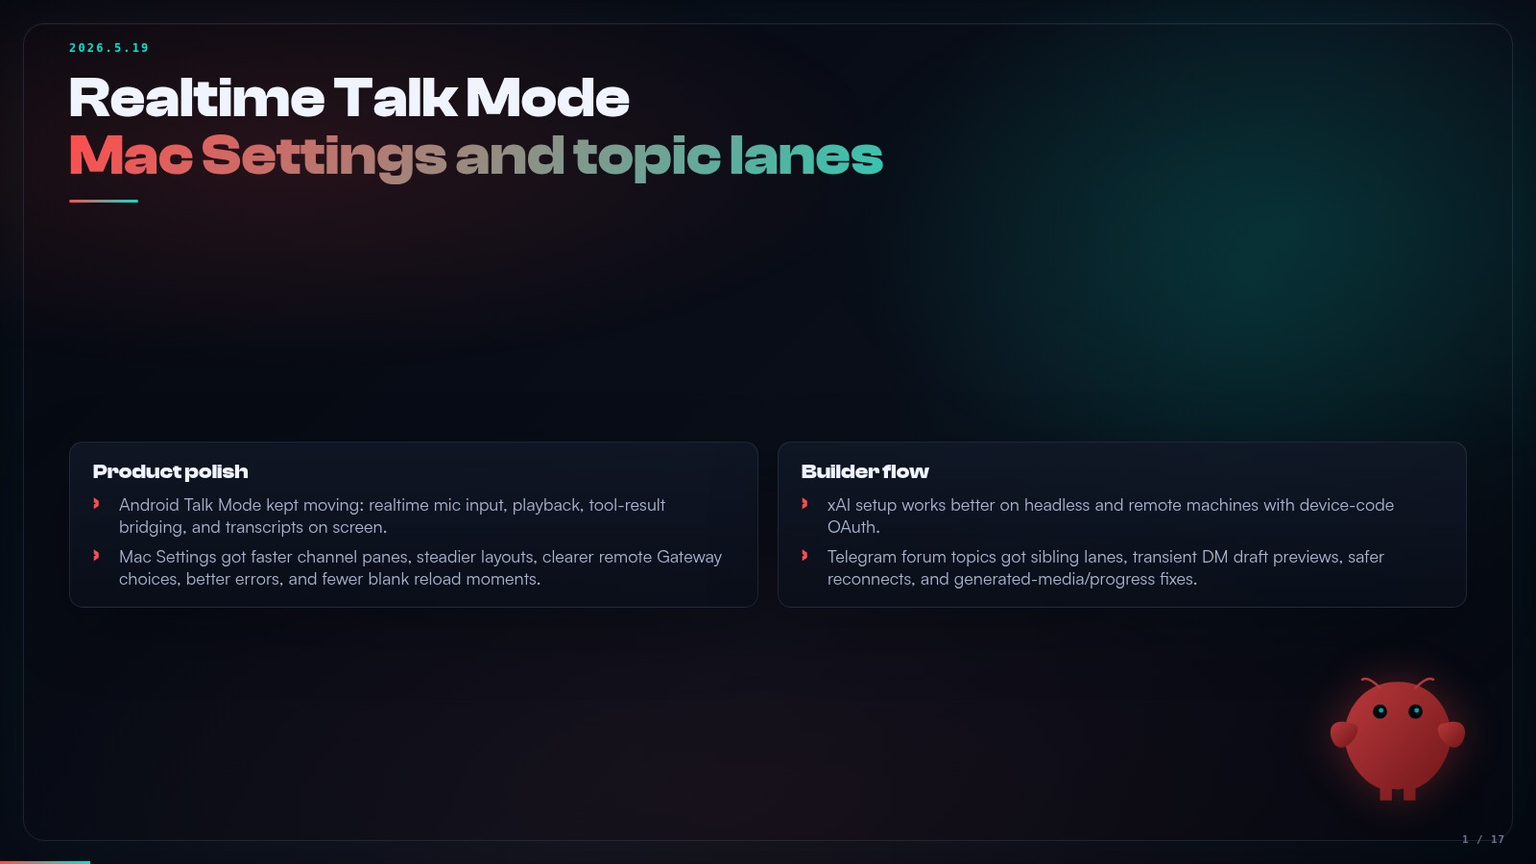
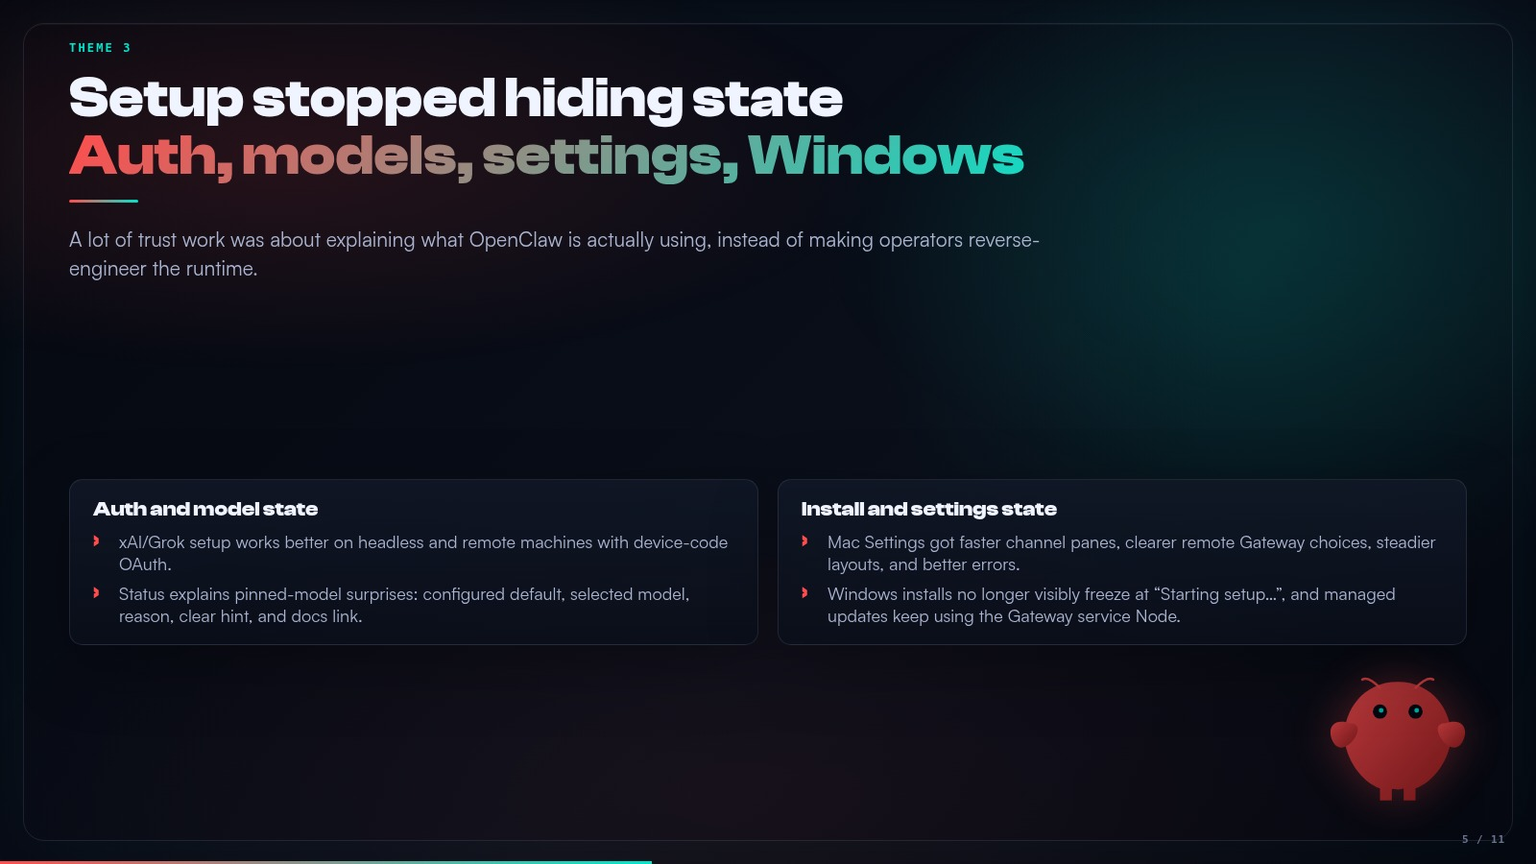
Compress Weekly Claw week 15 deck

diff --git a/public/weekly-claw/week15/deck.html b/public/weekly-claw/week15/deck.html
@@ -138,39 +138,27 @@ li::before,.bullet-list li::before{content:"›";font:700 25px/.86 var(--font-di
 </head>
 <body>
 <div class="deck" id="deck">
-<section class="slide active layout-title" id="s1"><div class="claw-wordmark"><span class="claw-weekly">Weekly</span><span class="claw-claw">CLAW</span><span class="claw-ep">Ep. <em class="ep-num">15</em></span></div><div class="ep-label">OpenClaw Community · May 22, 2026</div><h1 class="title-hero">OpenClaw Change log &amp; Dev Experience<br><em>Less fragile. More operator-grade.</em></h1><div class="gold-rule"></div><p class="lead">Three stable releases landed this week: 2026.5.18, 2026.5.19, and 2026.5.20. The story is reliability work reaching the places builders actually feel first.</p><div class="card"><ul class="bullet-list"><li>Stable releases covered: 2026.5.18, 2026.5.19, 2026.5.20</li><li>Main story: voice, auth, Telegram topics, browser dialogs, status, secrets, Windows setup, and review loops moved from rough edges toward operating-system behavior.</li></ul></div><span class="meta-pill">2026-05-22.html</span><p class="caption">OpenClaw Weekly Dev Experience · slide 1 / 17</p></section>
+<section class="slide active layout-title" id="s1"><div class="claw-wordmark"><span class="claw-weekly">Weekly</span><span class="claw-claw">CLAW</span><span class="claw-ep">Ep. <em class="ep-num">15</em></span></div><div class="ep-label">OpenClaw Community · May 22, 2026</div><h1 class="title-hero">OpenClaw Change log &amp; Dev Experience<br><em>Less fragile. More operator-grade.</em></h1><div class="gold-rule"></div><p class="lead">Three stable releases landed this week. The story is reliability work reaching the places builders actually feel first.</p><div class="card"><ul class="bullet-list"><li>Release window: the May 18-20 stable line.</li><li>Main story: voice, auth, Telegram topics, browser dialogs, status, secrets, Windows setup, and review loops moved from rough edges toward operating-system behavior.</li></ul></div><span class="meta-pill">2026-05-22.html</span><p class="caption">OpenClaw Weekly Dev Experience · slide 1 / 11</p></section>
 
-<section class="slide layout-topic"><div class="ep-label">Community pulse</div><h2 class="slide-title">The numbers<br><span class="accent">Three releases, one reliability arc</span></h2><div class="gold-rule"></div><p class="lead">The release notes were not quiet: 601 bullets, 472 fixes, and 481 issue references across the stable line.</p><div class="stat-row"><div class="stat"><span class="num">3</span><span class="label">stable releases</span></div><div class="stat"><span class="num">601</span><span class="label">release bullets</span></div><div class="stat"><span class="num">472</span><span class="label">fix bullets</span></div><div class="stat"><span class="num">481</span><span class="label">issue refs</span></div></div><div class="card"><ul class="bullet-list"><li>2026.5.18 was the stable rollup after 2026.5.12, folding in beta trains plus final fixes.</li><li>2026.5.19 widened the release with Mac Settings, Codex plugin controls, Telegram topic lanes, and setup polish.</li><li>2026.5.20 tightened the operator-grade edges: voice follow, policy, secret warnings, status clarity, cron/session fixes, and Windows install behavior.</li></ul></div><p class="caption">OpenClaw Weekly Dev Experience · slide 2 / 17</p></section>
+<section class="slide layout-topic"><div class="ep-label">Community pulse</div><h2 class="slide-title">The numbers<br><span class="accent">A dense week, even by OpenClaw standards</span></h2><div class="gold-rule"></div><p class="lead">The stable line was backed by real volume: 1,687 commits, 164 authors, 601 release bullets, 472 fix bullets, and 481 issue references.</p><div class="stat-row"><div class="stat"><span class="num">1,687</span><span class="label">commits</span></div><div class="stat"><span class="num">164</span><span class="label">authors</span></div><div class="stat"><span class="num">601</span><span class="label">release bullets</span></div><div class="stat"><span class="num">472</span><span class="label">fix bullets</span></div></div><div class="card"><ul class="bullet-list"><li>Top commit authors: Peter Steinberger 551; Vincent Koc 318; Ayaan Zaidi 128; clawsweeper[bot] 64; Gio Della-Libera 59; Josh Avant 55; github-actions[bot] 54.</li><li>Commit mix: 942 fix, 168 test, 113 docs, 103 chore, 92 feat, 51 ci.</li><li>Release-note shape: three stable releases, 481 issue refs, and 24,892 downloads across current release assets.</li></ul></div><p class="caption">OpenClaw Weekly Dev Experience · slide 2 / 11</p></section>
 
-<section class="slide layout-topic"><div class="ep-label">The headline</div><h2 class="slide-title">OpenClaw hardened<br><span class="accent">where operators notice first</span></h2><div class="gold-rule"></div><p class="lead">This week was not about spectacle. It was about fewer ghost states in voice, chat, auth, setup, browser automation, secrets, status, and review loops. Useful, unglamorous, exactly the point.</p><p class="caption">OpenClaw Weekly Dev Experience</p></section>
+<section class="slide layout-topic"><div class="ep-label">Theme 1</div><h2 class="slide-title">Voice became a real surface<br><span class="accent">Realtime moved closer to daily use</span></h2><div class="gold-rule"></div><p class="lead">The biggest product-facing theme was not another model selector. It was voice becoming less demo-shaped and more operational.</p><div class="card"><ul class="bullet-list"><li>Android Talk Mode moved through realtime Gateway relay voice sessions with streaming mic input, playback, tool results, and transcripts.</li><li>Discord voice follow added allowed-channel checks, multi-user handoff, and recovery paths.</li><li>Voice profile context, bootstrap files, and realtime session behavior became configurable enough for operator workflows.</li></ul></div><p class="caption">OpenClaw Weekly Dev Experience · slide 3 / 11</p></section>
 
-<section class="slide layout-topic"><div class="ep-label">2026.5.18</div><h2 class="slide-title">Grok auth, Android realtime<br><span class="accent">Telegram topics, browser dialogs</span></h2><div class="gold-rule"></div><div class="grid"><div class="card"><strong>Voice and auth</strong><ul class="bullet-list"><li>xAI/Grok OAuth and sidecar auth fixes landed for SuperGrok and cleaner auth profiles.</li><li>Android Talk Mode moved to realtime Gateway relay voice sessions with streaming mic input, playback, tool results, and transcripts.</li></ul></div><div class="card"><strong>Channel behavior</strong><ul class="bullet-list"><li>Telegram media completions and replies stay in forum topics instead of leaking into base chat.</li><li>Browser automation reports blocked dialogs, snapshots show pending/recent dialogs, and dialogs can be answered by ID.</li></ul></div></div><p class="caption">OpenClaw Weekly Dev Experience</p></section>
+<section class="slide layout-topic"><div class="ep-label">Theme 2</div><h2 class="slide-title">Channels got less leaky<br><span class="accent">Telegram, Discord, browser, media</span></h2><div class="gold-rule"></div><p class="lead">The messaging work had one clear job: make replies land where the human expects them, with fewer invisible side effects.</p><div class="grid"><div class="card"><strong>Chat surfaces</strong><ul class="bullet-list"><li>Telegram media completions and replies stay in forum topics instead of leaking into base chat.</li><li>Topic lanes, sibling topics, generated-media routing, progress behavior, and reconnect handling got tightened.</li></ul></div><div class="card"><strong>Browser surfaces</strong><ul class="bullet-list"><li>Browser automation reports blocked dialogs, exposes pending/recent dialogs in snapshots, and can answer dialogs by ID.</li><li>Long-running page functions now get realistic timeout budgets through browser evaluate timeout controls.</li></ul></div></div><p class="caption">OpenClaw Weekly Dev Experience · slide 4 / 11</p></section>
 
-<section class="slide layout-topic"><div class="ep-label">2026.5.19</div><h2 class="slide-title">Realtime Talk Mode<br><span class="accent">Mac Settings and topic lanes</span></h2><div class="gold-rule"></div><div class="grid"><div class="card"><strong>Product polish</strong><ul class="bullet-list"><li>Android Talk Mode kept moving: realtime mic input, playback, tool-result bridging, and transcripts on screen.</li><li>Mac Settings got faster channel panes, steadier layouts, clearer remote Gateway choices, better errors, and fewer blank reload moments.</li></ul></div><div class="card"><strong>Builder flow</strong><ul class="bullet-list"><li>xAI setup works better on headless and remote machines with device-code OAuth.</li><li>Telegram forum topics got sibling lanes, transient DM draft previews, safer reconnects, and generated-media/progress fixes.</li></ul></div></div><p class="caption">OpenClaw Weekly Dev Experience</p></section>
+<section class="slide layout-topic"><div class="ep-label">Theme 3</div><h2 class="slide-title">Setup stopped hiding state<br><span class="accent">Auth, models, settings, Windows</span></h2><div class="gold-rule"></div><p class="lead">A lot of trust work was about explaining what OpenClaw is actually using, instead of making operators reverse-engineer the runtime.</p><div class="grid"><div class="card"><strong>Auth and model state</strong><ul class="bullet-list"><li>xAI/Grok setup works better on headless and remote machines with device-code OAuth.</li><li>Status explains pinned-model surprises: configured default, selected model, reason, clear hint, and docs link.</li></ul></div><div class="card"><strong>Install and settings state</strong><ul class="bullet-list"><li>Mac Settings got faster channel panes, clearer remote Gateway choices, steadier layouts, and better errors.</li><li>Windows installs no longer visibly freeze at “Starting setup…”, and managed updates keep using the Gateway service Node.</li></ul></div></div><p class="caption">OpenClaw Weekly Dev Experience · slide 5 / 11</p></section>
 
-<section class="slide layout-topic"><div class="ep-label">2026.5.20</div><h2 class="slide-title">Discord voice follow<br><span class="accent">secret warnings, status clarity, Windows polish</span></h2><div class="gold-rule"></div><div class="grid"><div class="card"><strong>Runtime trust</strong><ul class="bullet-list"><li>Discord voice sessions can follow configured users into voice channels with allowed-channel checks, multi-user handoff, and DAVE recovery.</li><li>Doctor warns when openclaw.json stores plaintext provider API keys or sensitive headers.</li></ul></div><div class="card"><strong>Setup trust</strong><ul class="bullet-list"><li>Status explains pinned-model surprises: configured default, selected model, reason, clear hint, and docs link.</li><li>Windows installs no longer visibly freeze at “Starting setup…”, and managed updates keep using the Gateway service Node.</li></ul></div></div><p class="caption">OpenClaw Weekly Dev Experience</p></section>
+<section class="slide layout-topic"><div class="ep-label">Security + ops</div><h2 class="slide-title">More fail-closed<br><span class="accent">less ambient trust</span></h2><div class="gold-rule"></div><p class="lead">The safety story was practical: secret warnings, policy checks, approval repair, symlink credential refusal, bounded hooks, and better diagnostics when automation gets wedged.</p><div class="card"><ul class="bullet-list"><li>Doctor now warns on plaintext secret-bearing config fields.</li><li>Secret-file readers that request symlink rejection refuse symlinked token files again.</li><li>Manual approvals route through the trusted approval runtime instead of looking unknown or expired.</li><li>The bundled Policy plugin adds channel conformance checks, doctor lint findings, and opt-in repair.</li></ul></div><p class="caption">OpenClaw Weekly Dev Experience · slide 6 / 11</p></section>
 
-<section class="slide layout-topic"><div class="ep-label">Concrete bits</div><h2 class="slide-title">Names, commands, config keys<br><span class="accent">the engineer-proof slide</span></h2><div class="gold-rule"></div><p class="lead">If the room asks what actually shipped, use these. They are specific enough to survive contact with maintainers.</p><div class="card"><ul class="bullet-list"><li><strong>OPENCLAW_IMAGE_APT_PACKAGES</strong> and <strong>OPENCLAW_IMAGE_PIP_PACKAGES</strong> make Docker/Podman images easier to extend.</li><li><strong>openclaw browser evaluate --timeout-ms</strong> gives long-running page functions more realistic budgets.</li><li><strong>agents.list[].experimental.localModelLean</strong> scopes lean local-model mode to one configured agent.</li><li><strong>voice.realtime.bootstrapContextFiles</strong> controls profile context injected into realtime voice sessions.</li><li><strong>models.providers.*.timeoutSeconds</strong> lets slow cloud or self-hosted providers avoid premature fallback.</li><li><strong>openclaw cron show</strong>, <strong>gateway status</strong>, and pinned-model status output gained clearer bounded diagnostics.</li></ul></div><p class="caption">OpenClaw Weekly Dev Experience</p></section>
+<section class="slide layout-topic"><div class="ep-label">The pattern</div><h2 class="slide-title">Reliability became the product story</h2><div class="gold-rule"></div><p class="lead">That is platform work, not feature theater.</p><div class="quote">The release arc is clear: less fragile voice, less channel leakage, less invisible runtime state, less modal blindness, fewer setup traps, and more visible review machinery.</div><p class="caption">OpenClaw Weekly Dev Experience · slide 7 / 11</p></section>
 
-<section class="slide layout-topic"><div class="ep-label">Security + ops</div><h2 class="slide-title">More fail-closed<br><span class="accent">less ambient trust</span></h2><div class="gold-rule"></div><p class="lead">The safety story was practical: secret warnings, policy checks, approval repair, symlink credential refusal, bounded hooks, and better diagnostics when automation gets wedged.</p><div class="card"><ul class="bullet-list"><li>Doctor now warns on plaintext secret-bearing config fields.</li><li>Secret-file readers that request symlink rejection refuse symlinked token files again.</li><li>Manual approvals route through the trusted approval runtime instead of looking unknown or expired.</li><li>The bundled Policy plugin adds channel conformance checks, doctor lint findings, and opt-in repair.</li></ul></div><p class="caption">OpenClaw Weekly Dev Experience</p></section>
+<section class="slide layout-topic"><div class="ep-label">DX review</div><h2 class="slide-title">Developer experience readout<br><span class="accent">review, release proof, setup clarity</span></h2><div class="gold-rule"></div><div class="grid"><div class="card"><strong>What the chatter showed</strong><ul class="bullet-list"><li>The clawtributors signal was work-in-progress, not applause: open PRs, maintainer attention asks, Telegram regressions, delivery bugs, and ClawSweeper review loops.</li><li>Sentiment was energized but impatient. People are shipping, but the queue feels heavy when review and release proof lag behind velocity.</li></ul></div><div class="card"><strong>What it means</strong><ul class="bullet-list"><li>Critical PRs need visible owners, clearer status, and a short path from repro to review.</li><li>Release claims land better when paired with test evidence, not just changelog volume.</li></ul></div></div><p class="caption">OpenClaw Weekly Dev Experience · slide 8 / 11</p></section>
 
-<section class="slide layout-topic"><div class="ep-label">The pattern</div><h2 class="slide-title">Reliability became the product story</h2><div class="gold-rule"></div><p class="lead">That is platform work, not feature theater.</p><div class="quote">The release arc is clear: less cursed auth, less channel leakage, less invisible runtime state, less modal blindness, fewer setup traps, and more visible review machinery.</div><p class="caption">OpenClaw Weekly Dev Experience</p></section>
+<section class="slide layout-topic"><div class="ep-label">Community signal</div><h2 class="slide-title">Positive energy<br><span class="accent">brittle trust</span></h2><div class="gold-rule"></div><div class="grid"><div class="card"><strong>Healthy signal</strong><ul class="bullet-list"><li>Contributors are building packages, taking over PRs, testing releases, and helping each other debug live installs.</li><li>People are willing to file issues and PRs when repro asks are narrow and maintainers respond.</li></ul></div><div class="card"><strong>Fragile signal</strong><ul class="bullet-list"><li>Telegram remained the trust surface: topic sessions, progress messages, media routing, and disappearing sends kept showing up as release-critical pain.</li><li>Auth/model setup still overloads users because runtime, provider, selected model, channel session, and memory behavior blur together.</li></ul></div></div><p class="caption">OpenClaw Weekly Dev Experience · slide 9 / 11</p></section>
 
-<section class="slide layout-topic"><div class="ep-label">DevExperience cold open</div><h2 class="slide-title">Contributors were not sightseeing<br><span class="accent">they were in the work queue</span></h2><div class="gold-rule"></div><div class="grid"><div class="card"><strong>What the chatter showed</strong><ul class="bullet-list"><li>The clawtributors signal was work-in-progress, not applause: open PRs, maintainer attention asks, Telegram regressions, send-message delivery bugs, and ClawSweeper review loops.</li><li>Sentiment was energized but impatient. People are shipping, but the queue feels heavy when review and release proof lag behind velocity.</li></ul></div><div class="card"><strong>What it means</strong><ul class="bullet-list"><li>Critical PRs need visible owners, clearer status, and a short path from repro to review.</li><li>Release claims land better when paired with test evidence, not just changelog volume.</li></ul></div></div><p class="caption">OpenClaw Weekly Dev Experience</p></section>
+<section class="slide layout-topic"><div class="ep-label">Signal map</div><h2 class="slide-title">What should shape next week<br><span class="accent">release blockers, docs, review loops</span></h2><div class="gold-rule"></div><div class="grid"><div class="card"><strong>Product pressure</strong><ul class="bullet-list"><li>Telegram/chat-surface bugs should block release quality when they break topic routing, progress handling, or final answer delivery.</li><li>Setup needs one canonical path plus status that explains what is selected, why, and how to clear it.</li></ul></div><div class="card"><strong>Operating pressure</strong><ul class="bullet-list"><li>Subagents need lighter default context: enough to finish the job, not the whole operator autobiography.</li><li>ClawSweeper and Codex review loops need owner, state, and stopping condition visible before they become endless work generators.</li></ul></div></div><p class="caption">OpenClaw Weekly Dev Experience · slide 10 / 11</p></section>
 
-<section class="slide layout-topic"><div class="ep-label">DevExperience priority 1</div><h2 class="slide-title">Telegram is still<br><span class="accent">the trust surface</span></h2><div class="gold-rule"></div><div class="grid"><div class="card"><strong>The sharp edge</strong><ul class="bullet-list"><li>Clawtributors called Telegram release-critical: “releases are basically dead in the water if you can’t use Telegram.”</li><li>This week’s pain was specific: topic sessions turning tool-progress into final messages, generated-media/progress routing, overlapping DM replies, and disappearing send-message behavior.</li></ul></div><div class="card"><strong>The priority</strong><ul class="bullet-list"><li>Support threads echo the same pattern: final-answer-only mode, topic routing clarity, and fewer preview/progress surprises.</li><li>Telegram topic/progress/media bugs should be treated as release blockers, not edge-case support trivia.</li></ul></div></div><p class="caption">OpenClaw Weekly Dev Experience</p></section>
-
-<section class="slide layout-topic"><div class="ep-label">DevExperience priority 2</div><h2 class="slide-title">Auth and model setup<br><span class="accent">still overloads the mental model</span></h2><div class="gold-rule"></div><div class="grid"><div class="card"><strong>Where users trip</strong><ul class="bullet-list"><li>Users still mix runtime, provider auth, selected model, channel session, and memory behavior.</li><li>Claude CLI / Max plan and ChatGPT Pro / Codex OAuth confusion kept surfacing.</li></ul></div><div class="card"><strong>What fixes it</strong><ul class="bullet-list"><li>The fix is one canonical setup path plus status that explains what is selected, why, and how to clear it.</li><li>Docs need to mirror the current happy path, not a museum of all historical routes.</li></ul></div></div><p class="caption">OpenClaw Weekly Dev Experience</p></section>
-
-<section class="slide layout-topic"><div class="ep-label">DevExperience priority 3</div><h2 class="slide-title">Context and subagents<br><span class="accent">became a cost and safety issue</span></h2><div class="gold-rule"></div><div class="grid"><div class="card"><strong>The debate</strong><ul class="bullet-list"><li>Clawtributors debated whether subagents should inherit full AGENTS.md context or get a narrower subagents.md surface.</li><li>The concern is both cost and leakage: unnecessary memory/runbook context burns tokens and exposes operational detail if a child agent drifts.</li></ul></div><div class="card"><strong>The product move</strong><ul class="bullet-list"><li>Lighter child-agent context, clearer delegation defaults, and safer specialist workspaces.</li><li>Subagents need enough context to finish the job, not the whole operator autobiography.</li></ul></div></div><p class="caption">OpenClaw Weekly Dev Experience</p></section>
-
-<section class="slide layout-topic"><div class="ep-label">DevExperience priority 4</div><h2 class="slide-title">Review loops are becoming<br><span class="accent">product infrastructure</span></h2><div class="gold-rule"></div><div class="grid"><div class="card"><strong>The new normal</strong><ul class="bullet-list"><li>Goal Mode, ClawSweeper, Codex review loops, and “fix until platinum” are now normal community language.</li><li>That increases throughput, but it can also create hidden work or endless reminder loops if not bounded.</li></ul></div><div class="card"><strong>The requirement</strong><ul class="bullet-list"><li>Review automation needs owners, visible state, and stopping conditions.</li><li>The community wants faster maintainer routing without turning every PR into a haunted treadmill.</li></ul></div></div><p class="caption">OpenClaw Weekly Dev Experience</p></section>
-
-<section class="slide layout-topic"><div class="ep-label">Community sentiment</div><h2 class="slide-title">Positive energy<br><span class="accent">brittle trust</span></h2><div class="gold-rule"></div><div class="grid"><div class="card"><strong>Healthy signal</strong><ul class="bullet-list"><li>Contributors are building packages, taking over PRs, testing releases, and helping each other debug live installs.</li><li>People are willing to file issues and PRs when repro asks are narrow and maintainers respond.</li></ul></div><div class="card"><strong>Fragile signal</strong><ul class="bullet-list"><li>Setup churn, gateway loops, compaction failures, and auth changes still trigger “I turned everything off” moments.</li><li>The DX challenge is making momentum feel safe instead of chaotic.</li></ul></div></div><p class="caption">OpenClaw Weekly Dev Experience</p></section>
-
-<section class="slide layout-topic"><div class="ep-label">Discussion prompts</div><h2 class="slide-title">What the room should decide<br><span class="accent">before the next release</span></h2><div class="gold-rule"></div><div class="grid"><div class="card"><strong>Release blockers</strong><ul class="bullet-list"><li>Which Telegram/chat-surface bugs should block release quality this week?</li><li>Which setup paths must have one canonical docs/status flow before the next Weekly Claw?</li></ul></div><div class="card"><strong>Operating model</strong><ul class="bullet-list"><li>Should subagents get a narrower context file by default?</li><li>How should ClawSweeper/Codex review loops show owner, state, and stop condition?</li></ul></div></div><p class="caption">OpenClaw Weekly Dev Experience</p></section>
-
-<section class="slide layout-topic"><div class="ep-label">Close</div><h2 class="slide-title">The serious work is boring until it saves the week</h2><div class="gold-rule"></div><div class="quote">5.18, 5.19, and 5.20 tell the same story from three angles: make OpenClaw less fragile in the places serious operators notice first.</div><p class="caption">OpenClaw Weekly Dev Experience</p></section>
+<section class="slide layout-topic"><div class="ep-label">Summary</div><h2 class="slide-title">OpenClaw got more operator-grade<br><span class="accent">because the rough edges got named</span></h2><div class="gold-rule"></div><p class="lead">The week was not one shiny feature. It was the product learning where reliability has to show up: voice, messaging, setup, security, review, and contributor trust.</p><div class="card"><ul class="bullet-list"><li>The release story: fewer hidden states in the surfaces people actually touch.</li><li>The community story: high shipping energy, but review, Telegram, auth, docs, and setup need clearer proof paths.</li><li>The next useful bar: every release claim should map to a user-visible fix, a test surface, and a maintainer owner.</li></ul></div><p class="caption">OpenClaw Weekly Dev Experience · slide 11 / 11</p></section>
 </div>
 <div class="progress-bar" id="progressBar"></div><div class="slide-counter" id="slideCounter"></div><div class="nav-hint">← → or click to navigate</div>
 <script>
